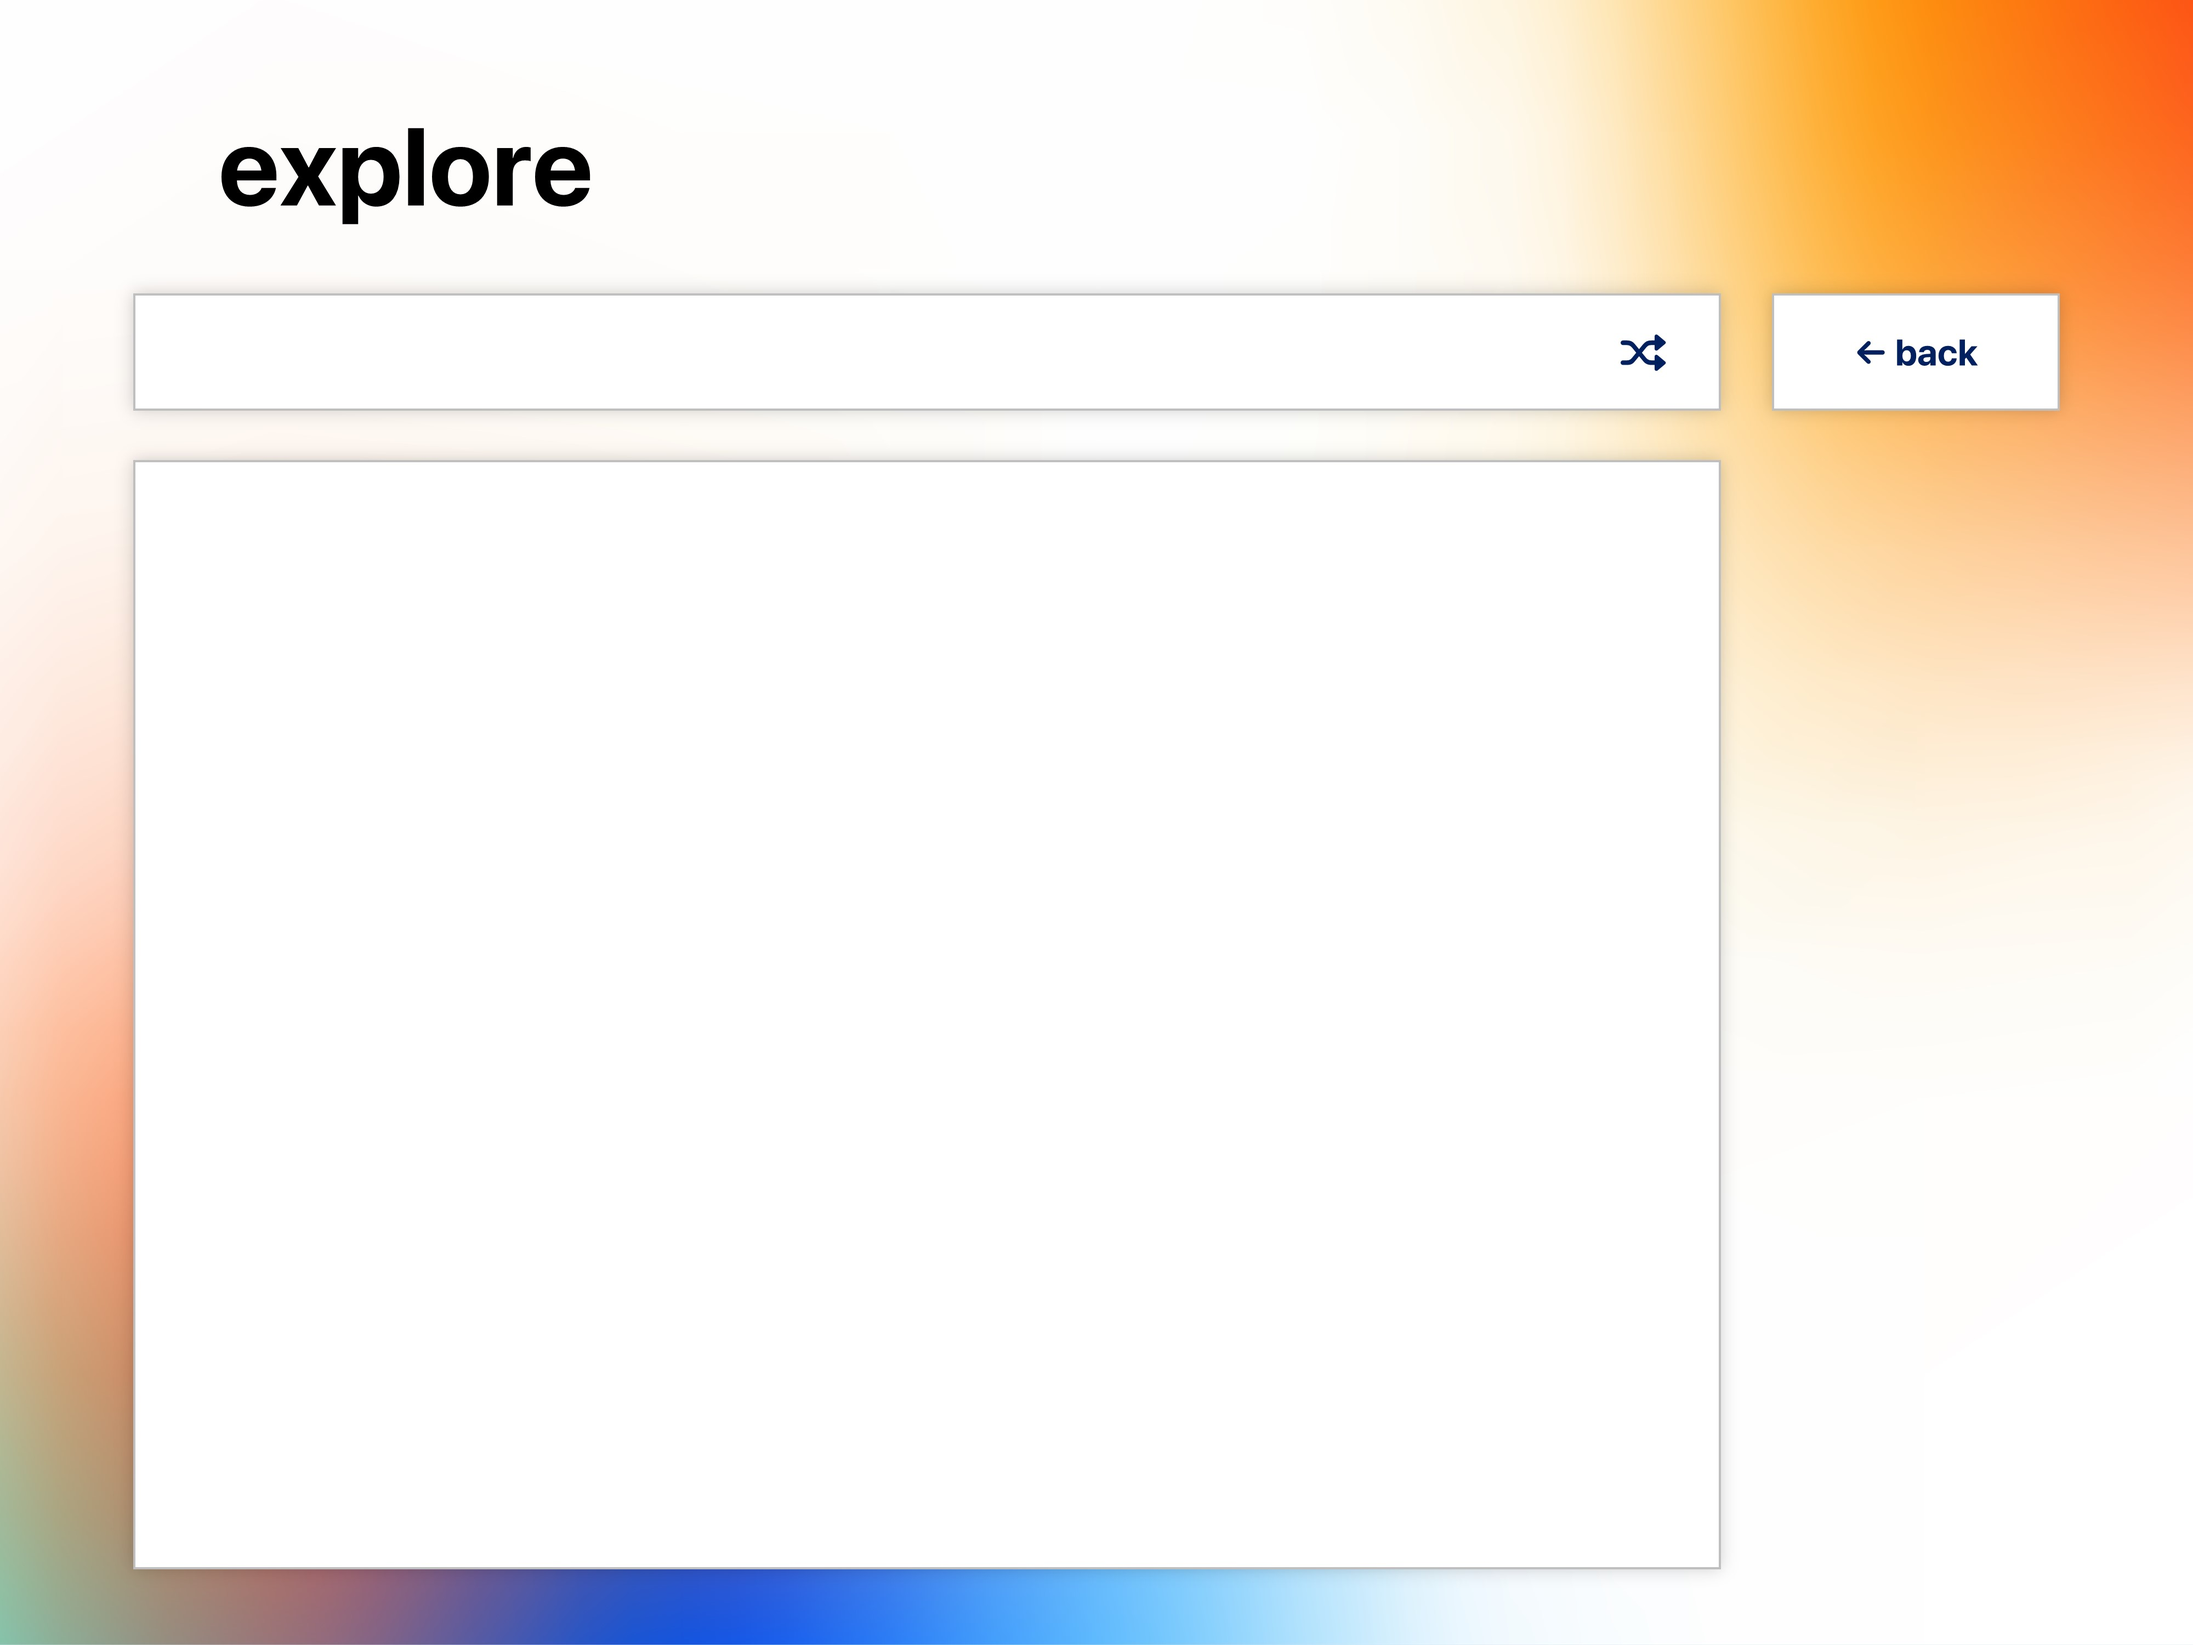
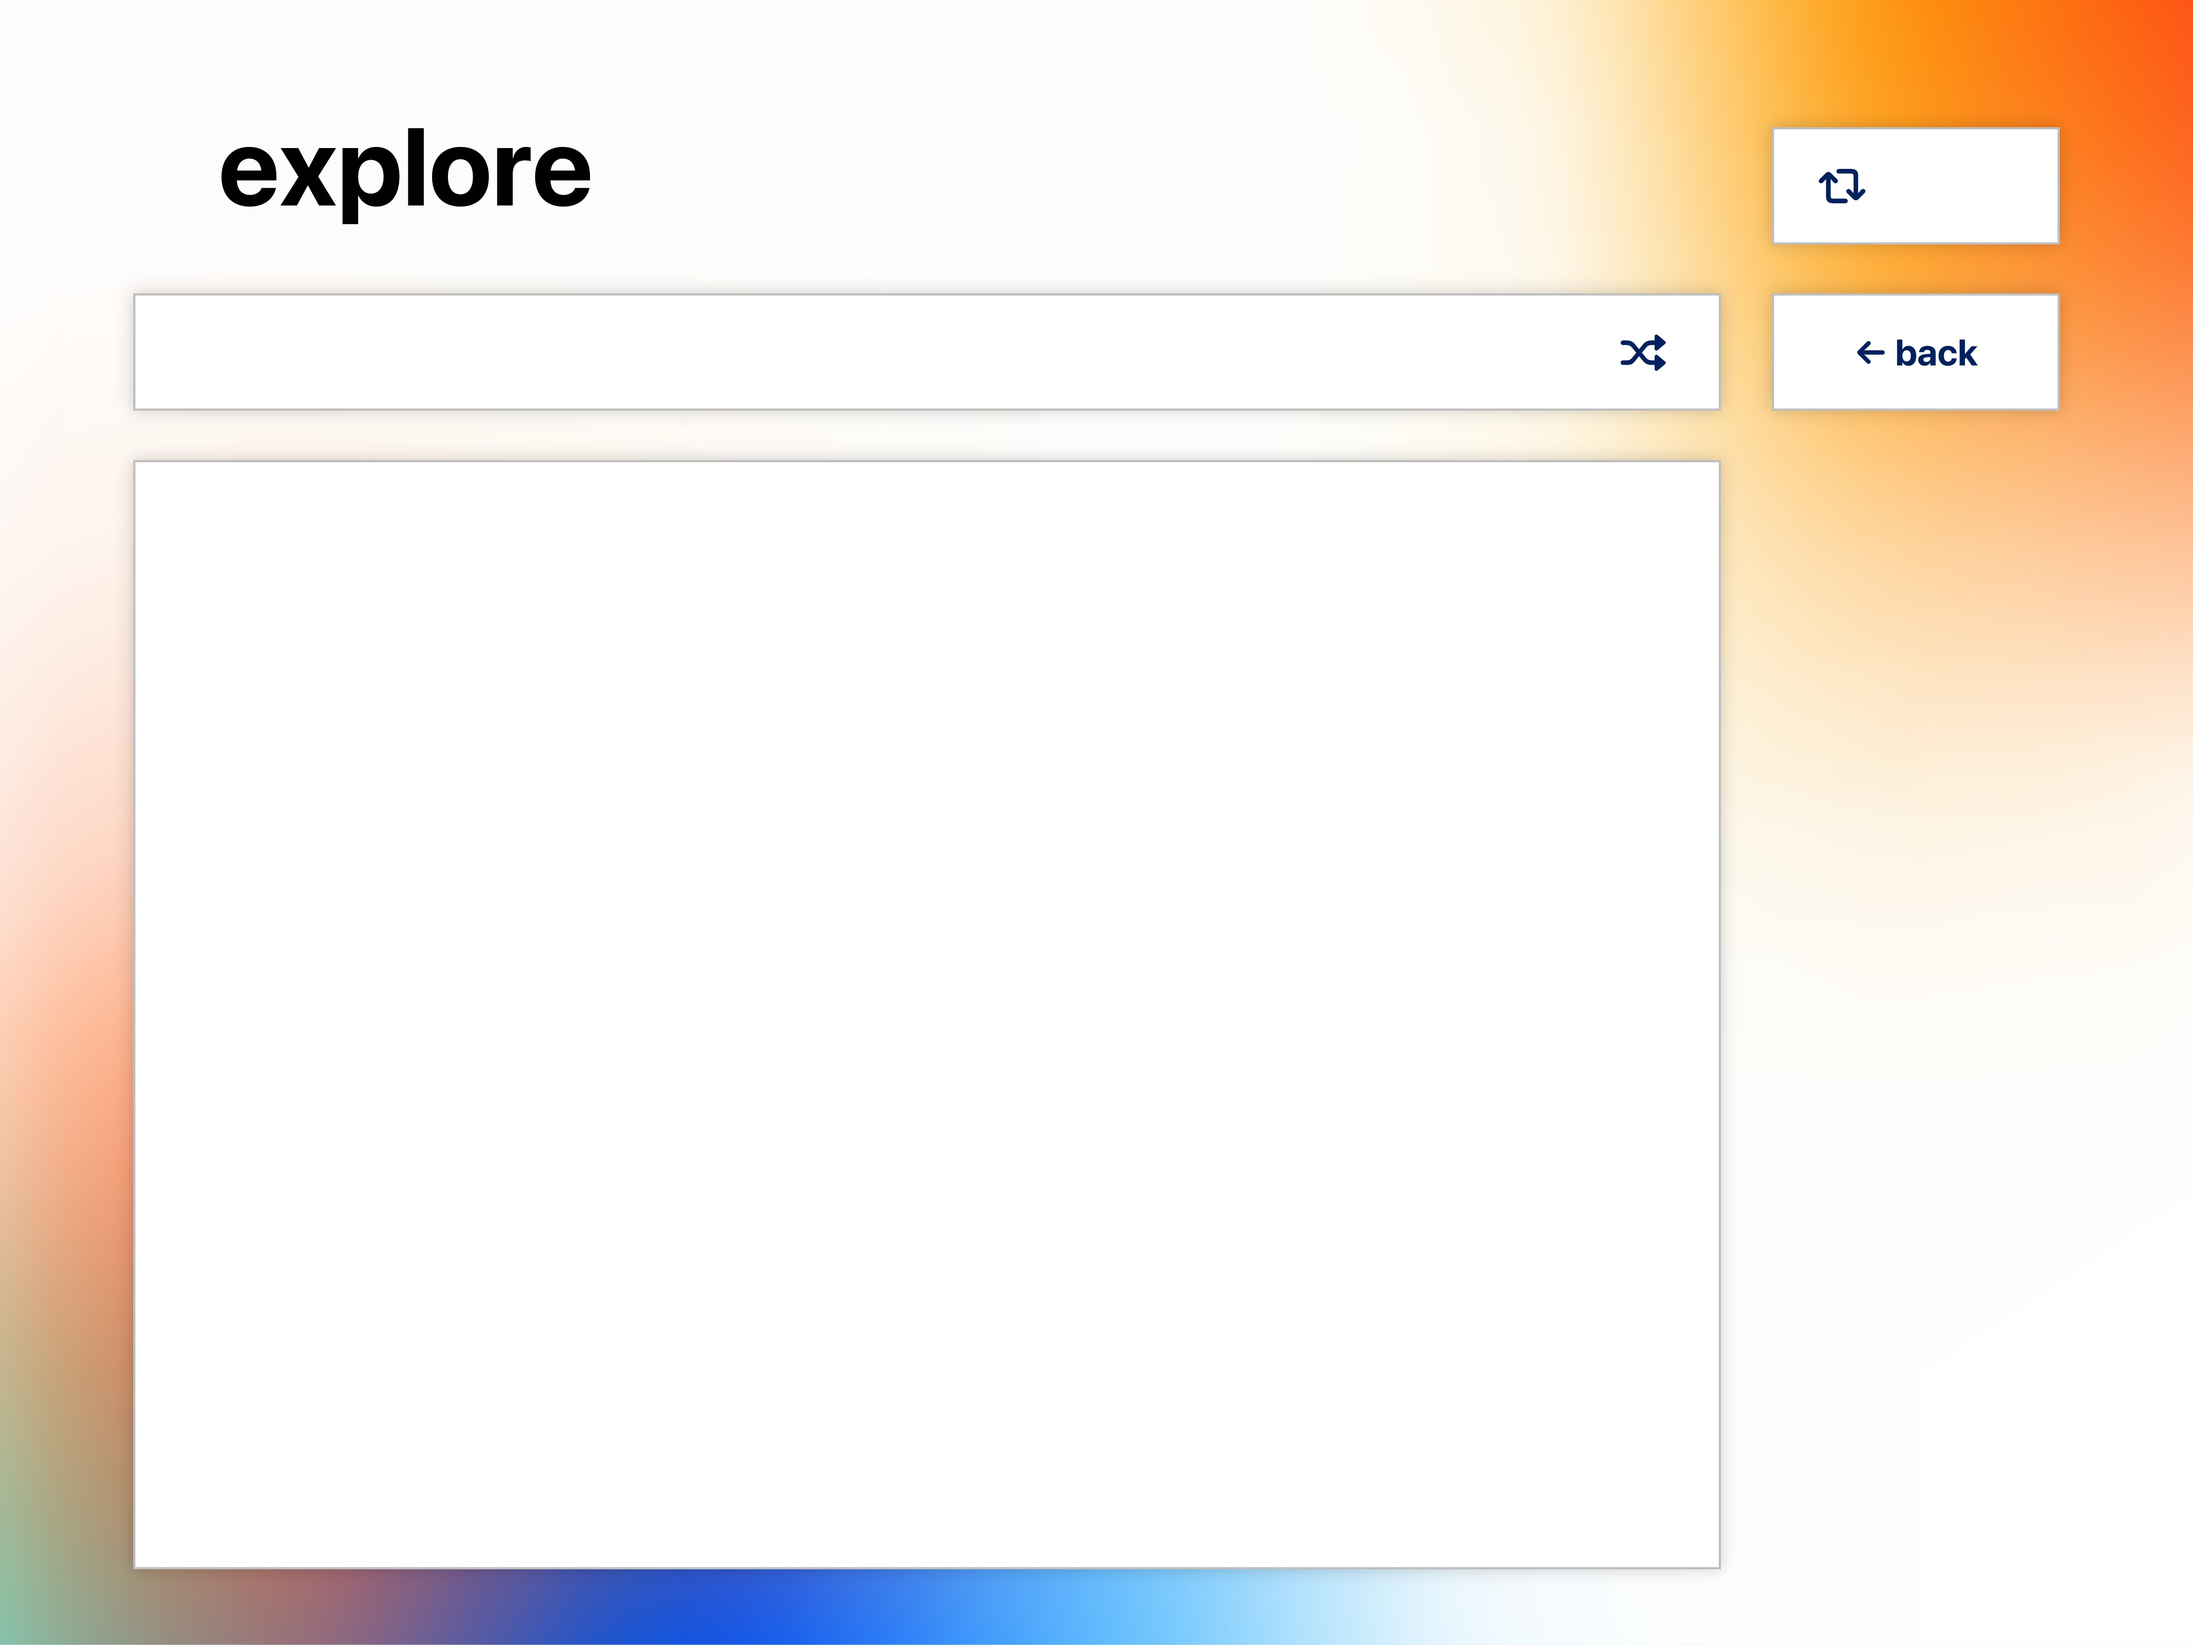
add explore buttons and screen

Changed region(s): [[0.7812, 0.062, 0.9375, 0.155]]

diff --git a/ConsoleApplication1/Application.cpp b/ConsoleApplication1/Application.cpp
@@ -15,6 +15,9 @@ Application::Application() :
 	editDefButton("", { 153, 42 }, 20, sf::Color::Transparent, sf::Color::Transparent),
 	favouritebutton("", { 153,42 }, 20, sf::Color::Transparent, sf::Color::Transparent),
 	searchDefButton("", { 153,42 }, 20, sf::Color::Transparent, sf::Color::Transparent),
+	exploreButton("", { 153,42 }, 20, sf::Color::Transparent, sf::Color::Transparent),
+	randomWordButton("", { 153,42 }, 20, sf::Color::Transparent, sf::Color::Transparent),
+	randomDefButton("", { 153,42 }, 20, sf::Color::Transparent, sf::Color::Transparent),
 	resetButton("", {153,42}, 20, sf::Color::Transparent, sf::Color::Transparent),
 	engEngRoot(nullptr),
 	history(),
@@ -24,6 +27,7 @@ Application::Application() :
 	newWord(nullptr),
 	removeWord(nullptr),
 	searchDefScreen(nullptr),
+	explore(nullptr),
 	displayBox({ 72, 250 }, { 850, 600 }, sf::Color::Transparent, sf::Color::Black),
 	dataSetButton("      EN - EN", { 153, 60 }, 20, sf::Color::Transparent, sf::Color::Black),
 	proposedWord(nullptr),
@@ -43,6 +47,9 @@ Application::Application() :
 	initFavouriteButton();
 	initResetButton();
 	initSearchDefButton();
+	initExploreButton();
+	initRandomWordButton();
+	initRandomDefButton();
 	loadAllHistory();
 }
 
@@ -54,6 +61,7 @@ Application::~Application()
 	delete favourite;
 	delete removeWord;
 	delete searchDefScreen;
+	delete explore;
 }
 
 void Application::loadEngEngDict()
@@ -484,6 +492,27 @@ void Application::initSearchDefButton()
 	searchDefButton.setOutlineThickness(2);
 }
 
+void Application::initExploreButton()
+{
+	exploreButton.setFont(font);
+	exploreButton.setPosition({ 972, 531 });
+	exploreButton.setOutlineThickness(2);
+}
+
+void Application::initRandomWordButton() 
+{
+	randomWordButton.setFont(font);
+	randomWordButton.setPosition({ 972, 587 });
+	randomWordButton.setOutlineThickness(2);
+}
+
+void Application::initRandomDefButton()
+{
+	randomDefButton.setFont(font);
+	randomDefButton.setPosition({ 972, 643 });
+	randomDefButton.setOutlineThickness(2);
+}
+
 void Application::initResetButton()
 {
 	resetButton.setFont(font);
@@ -772,6 +801,9 @@ void Application::update()
 		editDefButton.update(window);
 		favouritebutton.update(window);
 		searchDefButton.update(window);
+		exploreButton.update(window);
+		randomWordButton.update(window);
+		randomDefButton.update(window);
 		resetButton.update(window);
 		displayBox.update(window);
 	}
@@ -857,6 +889,9 @@ void Application::render()
 		editDefButton.drawTo(window);
 		favouritebutton.drawTo(window);
 		searchDefButton.drawTo(window);
+		exploreButton.drawTo(window);
+		randomWordButton.drawTo(window);
+		randomDefButton.drawTo(window);
 		resetButton.drawTo(window);
 		if (!proposedWord->setIsTyping())
 		{

diff --git a/ConsoleApplication1/Explore.cpp b/ConsoleApplication1/Explore.cpp
@@ -1,0 +1,42 @@
+#include "Explore.h"
+
+Explore::Explore(sf::Font& font, sf::Font& font2, sf::Window& window) :
+	displayBox({ 72, 250 }, { 850, 600 }, sf::Color::Transparent, sf::Color::Black),
+	currentDataSet(0)
+{
+	initBackground(window);
+	initFont();
+	initSearchBar();
+	initDisplayBox();
+}
+
+void Explore::initBackground(sf::Window& window)
+{
+	if (!backgroundTex.loadFromFile("background/explore.jpg"))
+		std::cout << "Loading screen not found!\n";
+	backgroundTex.setSmooth(true);
+	background.setTexture(backgroundTex);
+
+	// Scale the background to fit window
+	float scaleX = static_cast<float>(window.getSize().x) / backgroundTex.getSize().x;
+	float scaleY = static_cast<float>(window.getSize().y) / backgroundTex.getSize().y;
+	background.setScale(scaleX, scaleY);
+}
+
+
+void Explore::searchInEngEngDict(std::string& inputWord, std::vector<WordDataEngVie>& engEngVector, EngTrieNode*& engEngRoot)
+{
+    int wordIndex = filterAndSearch(engEngRoot, inputWord, 0);
+    if (wordIndex != -1)
+    {
+        // Console
+        std::cout << wordIndex << std::endl;
+        // UI
+        displayBox.getWordDataEngEng(inputWord, wordIndex, engEngVector);
+    }
+    else
+    {
+        std::cout << "Cannot find the word" << "\n";
+        displayBox.showNoEngEngDefinitions();
+    }
+}

diff --git a/ConsoleApplication1/Application.h b/ConsoleApplication1/Application.h
@@ -14,6 +14,7 @@
 #include "SwitchDataSet.h"
 #include "SearchDefinition.h"
 #include "ProposeWord.h"
+#include "Explore.h"
 
 class Application
 {
@@ -26,7 +27,8 @@ public:
         RemoveScreen,
         EditDefinitionScreen,
         FavouriteScreen,
-        SearchDefinitionScreen
+        SearchDefinitionScreen,
+        ExploreScreen
     };
 public:
     Application();
@@ -89,6 +91,9 @@ private:
     Button editDefButton;
     Button favouritebutton;
     Button searchDefButton;
+    Button exploreButton;
+    Button randomWordButton;
+    Button randomDefButton;
     Button resetButton;
 
     Favourite *favourite;
@@ -109,6 +114,7 @@ private:
     RemoveWord* removeWord;
     SearchDefinitionScreen* searchDefScreen;
     ProposeWord* proposedWord;
+    Explore* explore;
 private:
     void initWindow();
     void initBackground();
@@ -124,6 +130,9 @@ private:
     void initDisplayBox();
     void initFavouriteButton();
     void initSearchDefButton();
+    void initExploreButton();
+    void initRandomWordButton();
+	void initRandomDefButton();
     void initResetButton();
     void changeDataSet();
     void loadAllHistory();

diff --git a/ConsoleApplication1/Explore.h b/ConsoleApplication1/Explore.h
@@ -1,14 +1,43 @@
 #ifndef EXPLORE_H
 #define EXPLORE_H
 
+#include "Button.h"
+#include "Textbox.h"
+#include "Trie.h"
+#include "WordData.h"
+#include "DisplayDefinition.h"
+
 class Explore
 {
 public:
-	Explore();
+	Explore(sf::Font& font, sf::Font& font2, sf::Window& window);
 	~Explore();
-
+public:
+	void render(sf::Window& window);
+	void changeCurrentDataSet(int _number);
+	void displayDefinition();
+	void searchInEngEngDict(std::string& inputWord, std::vector<WordDataEngVie>& engEngVector, EngTrieNode*& engEngRoot);
+	void searchInEngVieDict(std::string& inputWord);
+	void searchInVieEngDict(std::string& inputWord);
+	void searchInEmojiDict(std::string& inputWord);
 private:
+	sf::Texture backgroundTex;
+	sf::Sprite background;
+	sf::Font font; //rounded
+	sf::Font font2; //regular
 
+	int currentDataSet;
+	sf::Text word;
+	DisplayBox displayBox;
+
+	std::string currentWord;
+	std::string currentDefinition;
+private:
+	void initCurrentDataSet();
+	void initBackground(sf::Window& window);
+	void initFont();
+	void initSearchBar();
+	void initDisplayBox();
 };
 
-#endif // !EXPLORE.H
+#endif // !EXPLORE_H
